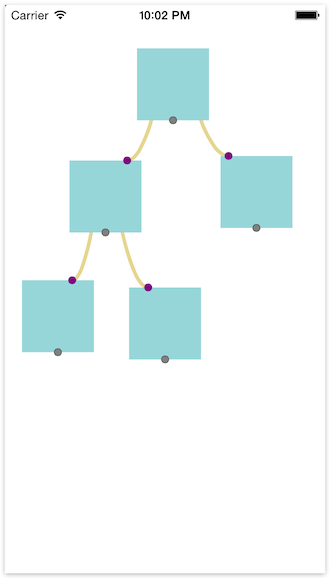
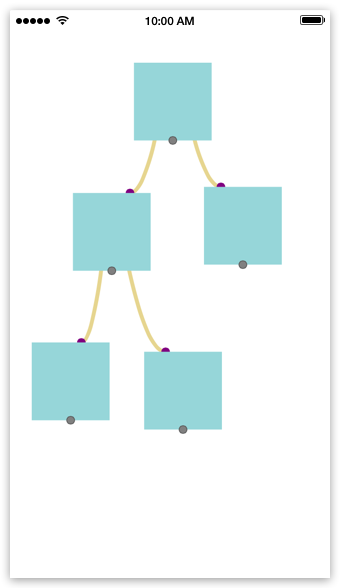
- updated screenshots

Changed region(s): [[0.0606, 0.0, 0.9091, 0.7474], [0.0, 0.0, 1.0, 0.9965]]

diff --git a/README.md b/README.md
@@ -15,6 +15,8 @@ A canvas with moveable nodes. Nodes can be added, deleted, moved, connected, col
 
 ![Connect nodes](https://github.com/tarbrain/TBCollectionCanvas/raw/master/Documentation/Images/Screenshots/5_canvas_connect.png)
 
+![Connect nodes](https://github.com/tarbrain/TBCollectionCanvas/raw/master/Documentation/Images/Screenshots/5_canvas_connected.png)
+
 ## Usage
 
 To run the example project; clone the repo, and run `pod install` from the Project directory first.
